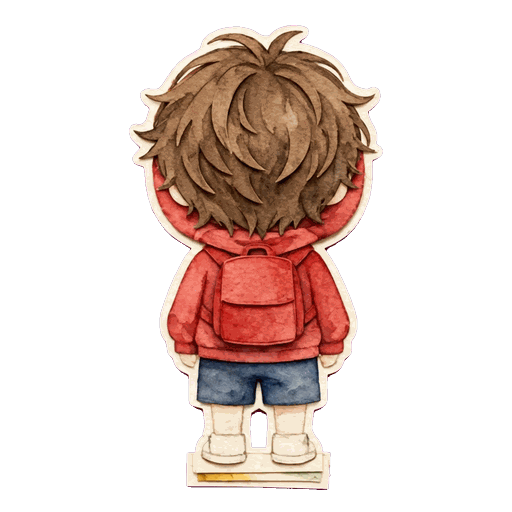
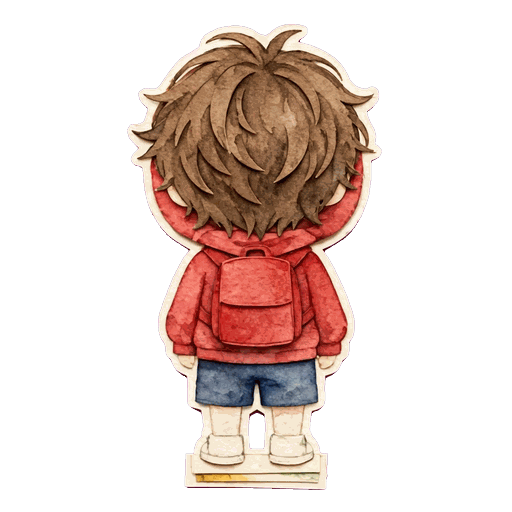
Han đi bằng khung hình vẽ sẵn: đánh tay, bước chân 4 hướng (#124)
- 9 khung (đứng, bước 1, bước 2 × trước / sau / ngang) cắt từ 3 tấm ChatGPT; cùng tỉ lệ (cao 466 px),
  chân đế y = 489, canh theo tâm đầu nên đầu không trôi khi đổi khung; hướng phải = lật hướng trái
- Hình đứng 3 hướng lấy cùng tấm với khung bước cho khớp nét; bàn tay cầm ô theo hình mới
- Tải sẵn khung bước khi nhân vật còn đứng
- sw v77

Claude-Session: https://claude.ai/code/session_01AHzGepJt93aQaJT6t7Vsc8

Changed region(s): [[0.25, 0.0312, 0.75, 0.9688]]

diff --git a/game/js/avatar.js b/game/js/avatar.js
@@ -90,7 +90,9 @@ var G = window.G || (window.G = {});
   G.walkSprite = function (c, base, x, footY, S, dir, phase, moving, plain) {
     var d = dir === 'right' ? 'left' : dir, flip = dir === 'right', stand = base + '_' + d + '.png';
     if (!has(stand)) { stand = base + '_down.png'; d = 'down'; flip = false; }
-    if (!moving || plain || !G.hasWalk(base, d)) { G.hopDraw(c, function (cc, X, Y, SS) { G.drawAsset(cc, stand, X, Y, SS, SS, flip); }, x, footY, S, phase, moving); return; }
+    var hw = G.hasWalk(base, d);
+    if (hw && !moving) { G.asset(base + '_' + d + '_w1.png'); G.asset(base + '_' + d + '_w2.png'); }   // tải sẵn khung bước khi còn đứng
+    if (!moving || plain || !hw) { G.hopDraw(c, function (cc, X, Y, SS) { G.drawAsset(cc, stand, X, Y, SS, SS, flip); }, x, footY, S, phase, moving); return; }
     var ph = phase * 0.5;   // khung hình: khoảng 2 bước mỗi giây (nhún nhảy thì nhanh hơn)
     var q = Math.floor(((ph % 6.2832) + 6.2832) % 6.2832 / 1.5708);   // 0..3
     var nm = q === 1 ? base + '_' + d + '_w1.png' : q === 3 ? base + '_' + d + '_w2.png' : stand;

diff --git a/game/data/asset_rev.js b/game/data/asset_rev.js
@@ -213,11 +213,17 @@ G.ASSET_REV = {"badge_1.webp":"4cd4eec0",
 "person_walter_left.png":"20341323",
 "person_walter_up.png":"68890442",
 "plane.png":"40ea1fde",
-"player_han_down.png":"cd163a62",
+"player_han_down.png":"5ba7e84f",
+"player_han_down_w1.png":"9207d600",
+"player_han_down_w2.png":"7c40b17a",
 "player_han_happy.png":"3cd6c9c4",
-"player_han_left.png":"cd26bf0c",
+"player_han_left.png":"6cd22248",
+"player_han_left_w1.png":"02186068",
+"player_han_left_w2.png":"cbd2438b",
 "player_han_think.png":"1fe247f5",
-"player_han_up.png":"22bc0679",
+"player_han_up.png":"50ba9979",
+"player_han_up_w1.png":"55cf18e2",
+"player_han_up_w2.png":"42edfbb3",
 "player_han_wow.png":"2c65038f",
 "player_minh_down.png":"a4024e1d",
 "player_minh_happy.png":"a3056630",

diff --git a/game/data/hands.js b/game/data/hands.js
@@ -51,9 +51,9 @@ G.HANDS = {
     'person_walter_down.png': [65.9, 75.1, '#fddcca', 4.7],
     'person_walter_left.png': [51.7, 76.2, '#fedcca', 4.7],
     'person_walter_up.png': [65.9, 75.1, '#fcdcc8', 4.7],
-    'player_han_down.png': [66.5, 65.5, '#f6dcc8', 4.7],
-    'player_han_left.png': [48.5, 72.5, '#f6dcc8', 4.7],
-    'player_han_up.png': [66, 65, '#f6dcc8', 4.9],
+    'player_han_down.png': [63.7, 69.7, '#f6dcc8', 4.7],
+    'player_han_left.png': [50.6, 71, '#f6dcc8', 4.7],
+    'player_han_up.png': [64.1, 70.3, '#f6dcc8', 4.7],
     'player_minh_down.png': [70.8, 74.5, '#feddc3', 4.7],
     'player_minh_left.png': [50.8, 77.2, '#feddc4', 4.7],
     'player_minh_up.png': [70.8, 74.9, '#fdddc3', 4.7]

diff --git a/game/sw.js b/game/sw.js
@@ -1,7 +1,7 @@
 /* Chạy offline: giữ toàn bộ code game, dữ liệu và mọi hình trong assets/.
    Hình tải qua assets/<tên>?v=<mã nội dung> (data/asset_rev.js): mỗi lần cập nhật app chỉ tải hình mới hoặc hình đã thay,
    hình không đổi chép lại từ bản trong máy. Tệp giọng đọc được giữ lại khi đã nghe một lần. */
-var VERSION = 'thegioi-v76';
+var VERSION = 'thegioi-v77';
 // giọng đọc: tên tệp đặt theo nội dung câu nên không bao giờ đổi, giữ riêng một kho để cập nhật app không phải tải lại
 var AUDIO = 'connectlife-audio-v2';
 var CORE = [

diff --git a/game/js/assets.js b/game/js/assets.js
@@ -5,6 +5,7 @@ var G = window.G || (window.G = {});
 G.TOWNIE_SETS = ['linda', 'walter', 'sofia', 'marco', 'amy', 'david', 'helen', 'kenji'];
 G.ASSET_LIST = [
   'player_han_down.png', 'player_han_up.png', 'player_han_left.png',
+  'player_han_down_w1.png', 'player_han_down_w2.png', 'player_han_up_w1.png', 'player_han_up_w2.png', 'player_han_left_w1.png', 'player_han_left_w2.png',
   'player_minh_down.png', 'player_minh_up.png', 'player_minh_left.png', 'kai_follow.png', 'kai_up.png', 'kai_left.png',
   'card_city_en.png', 'card_city_zh.png', 'card_city_soon.png', 'lobby_hero.png',
   'map_home_en_p.png', 'map_street_en.png',
